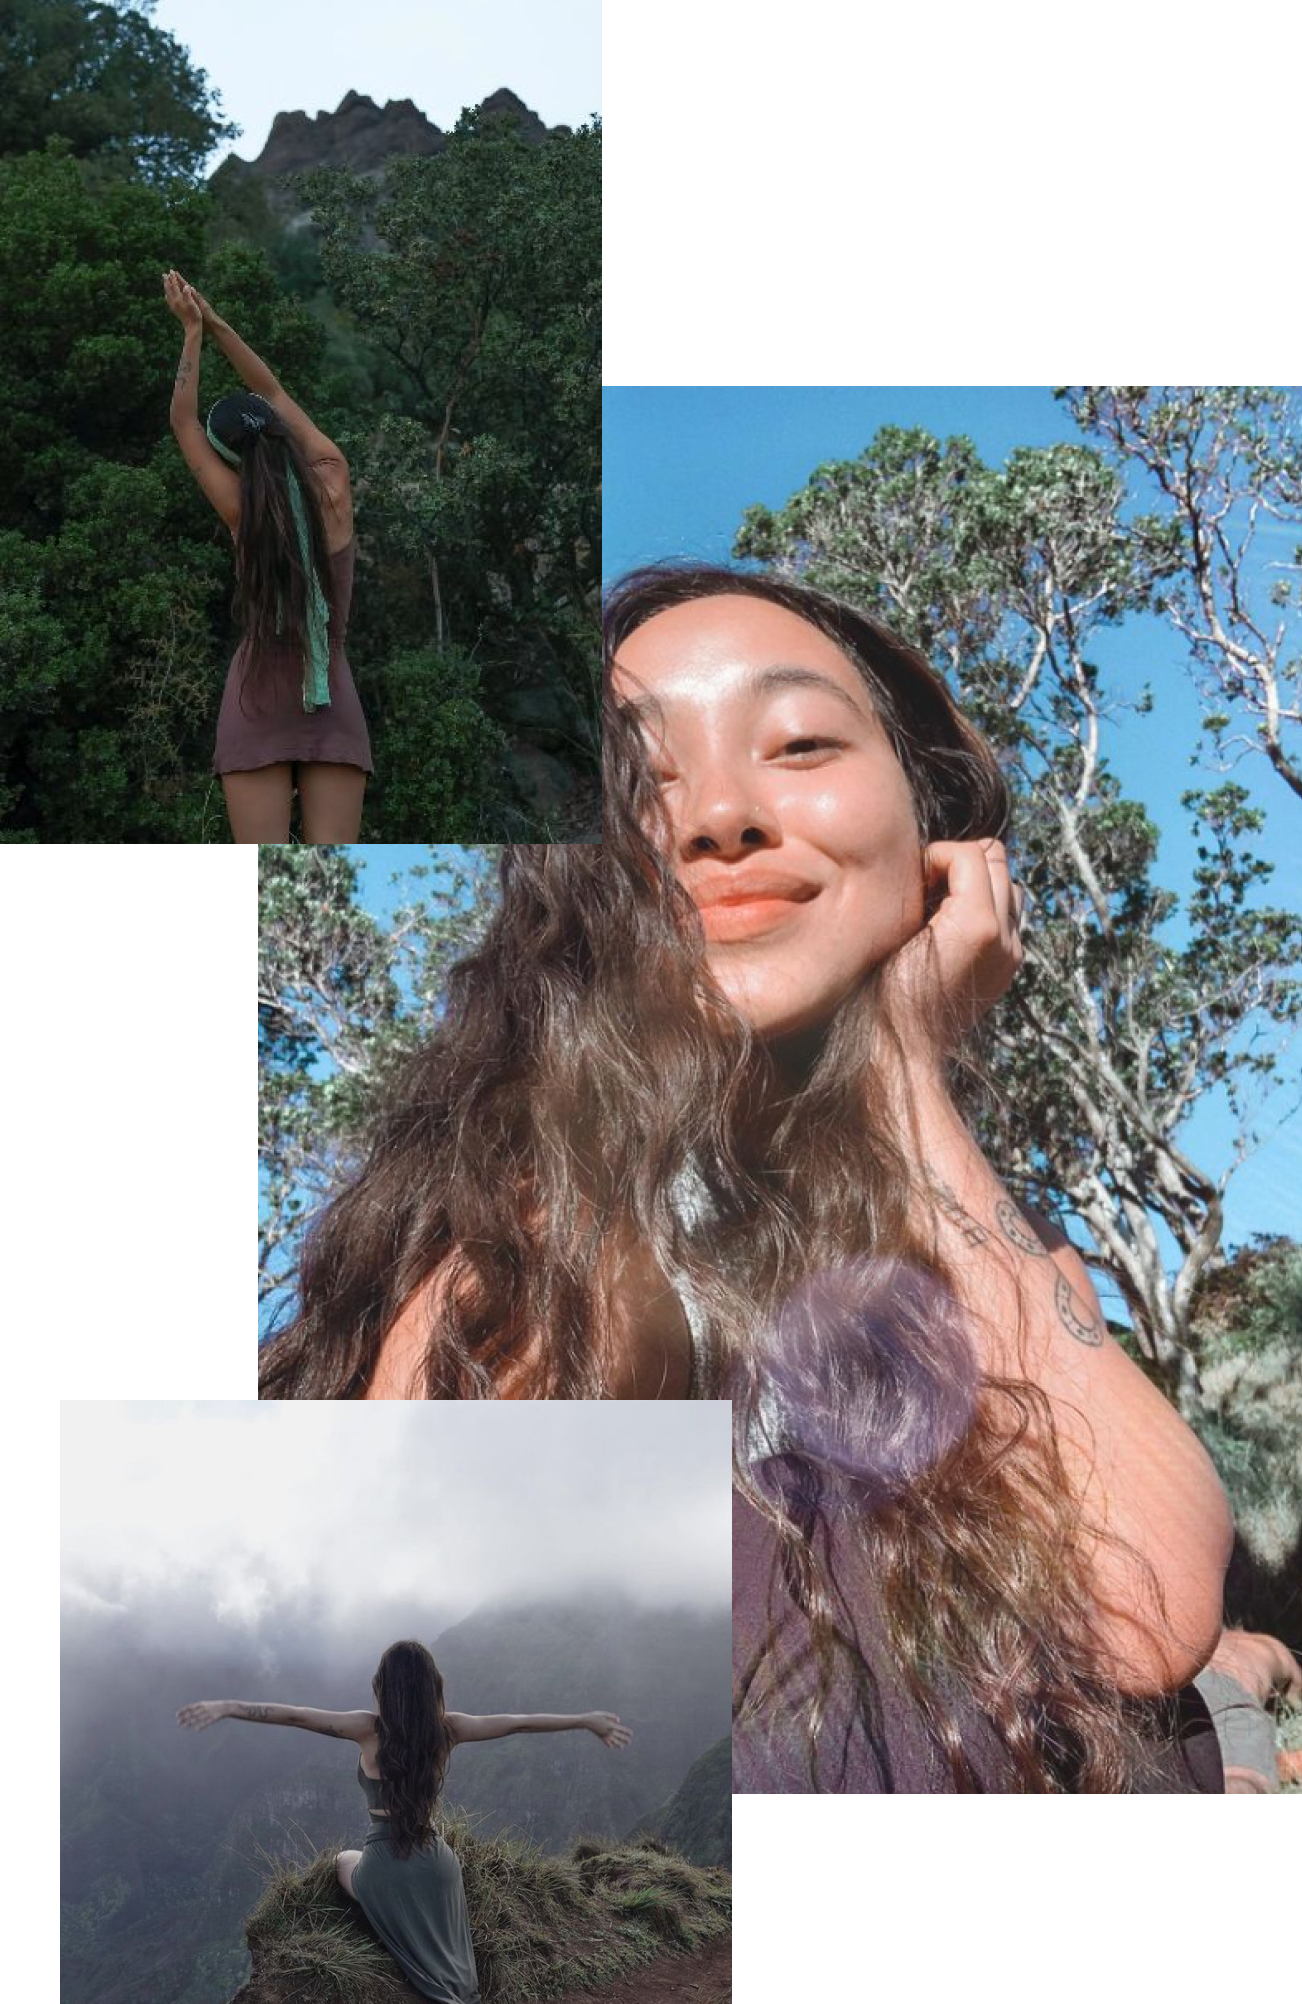
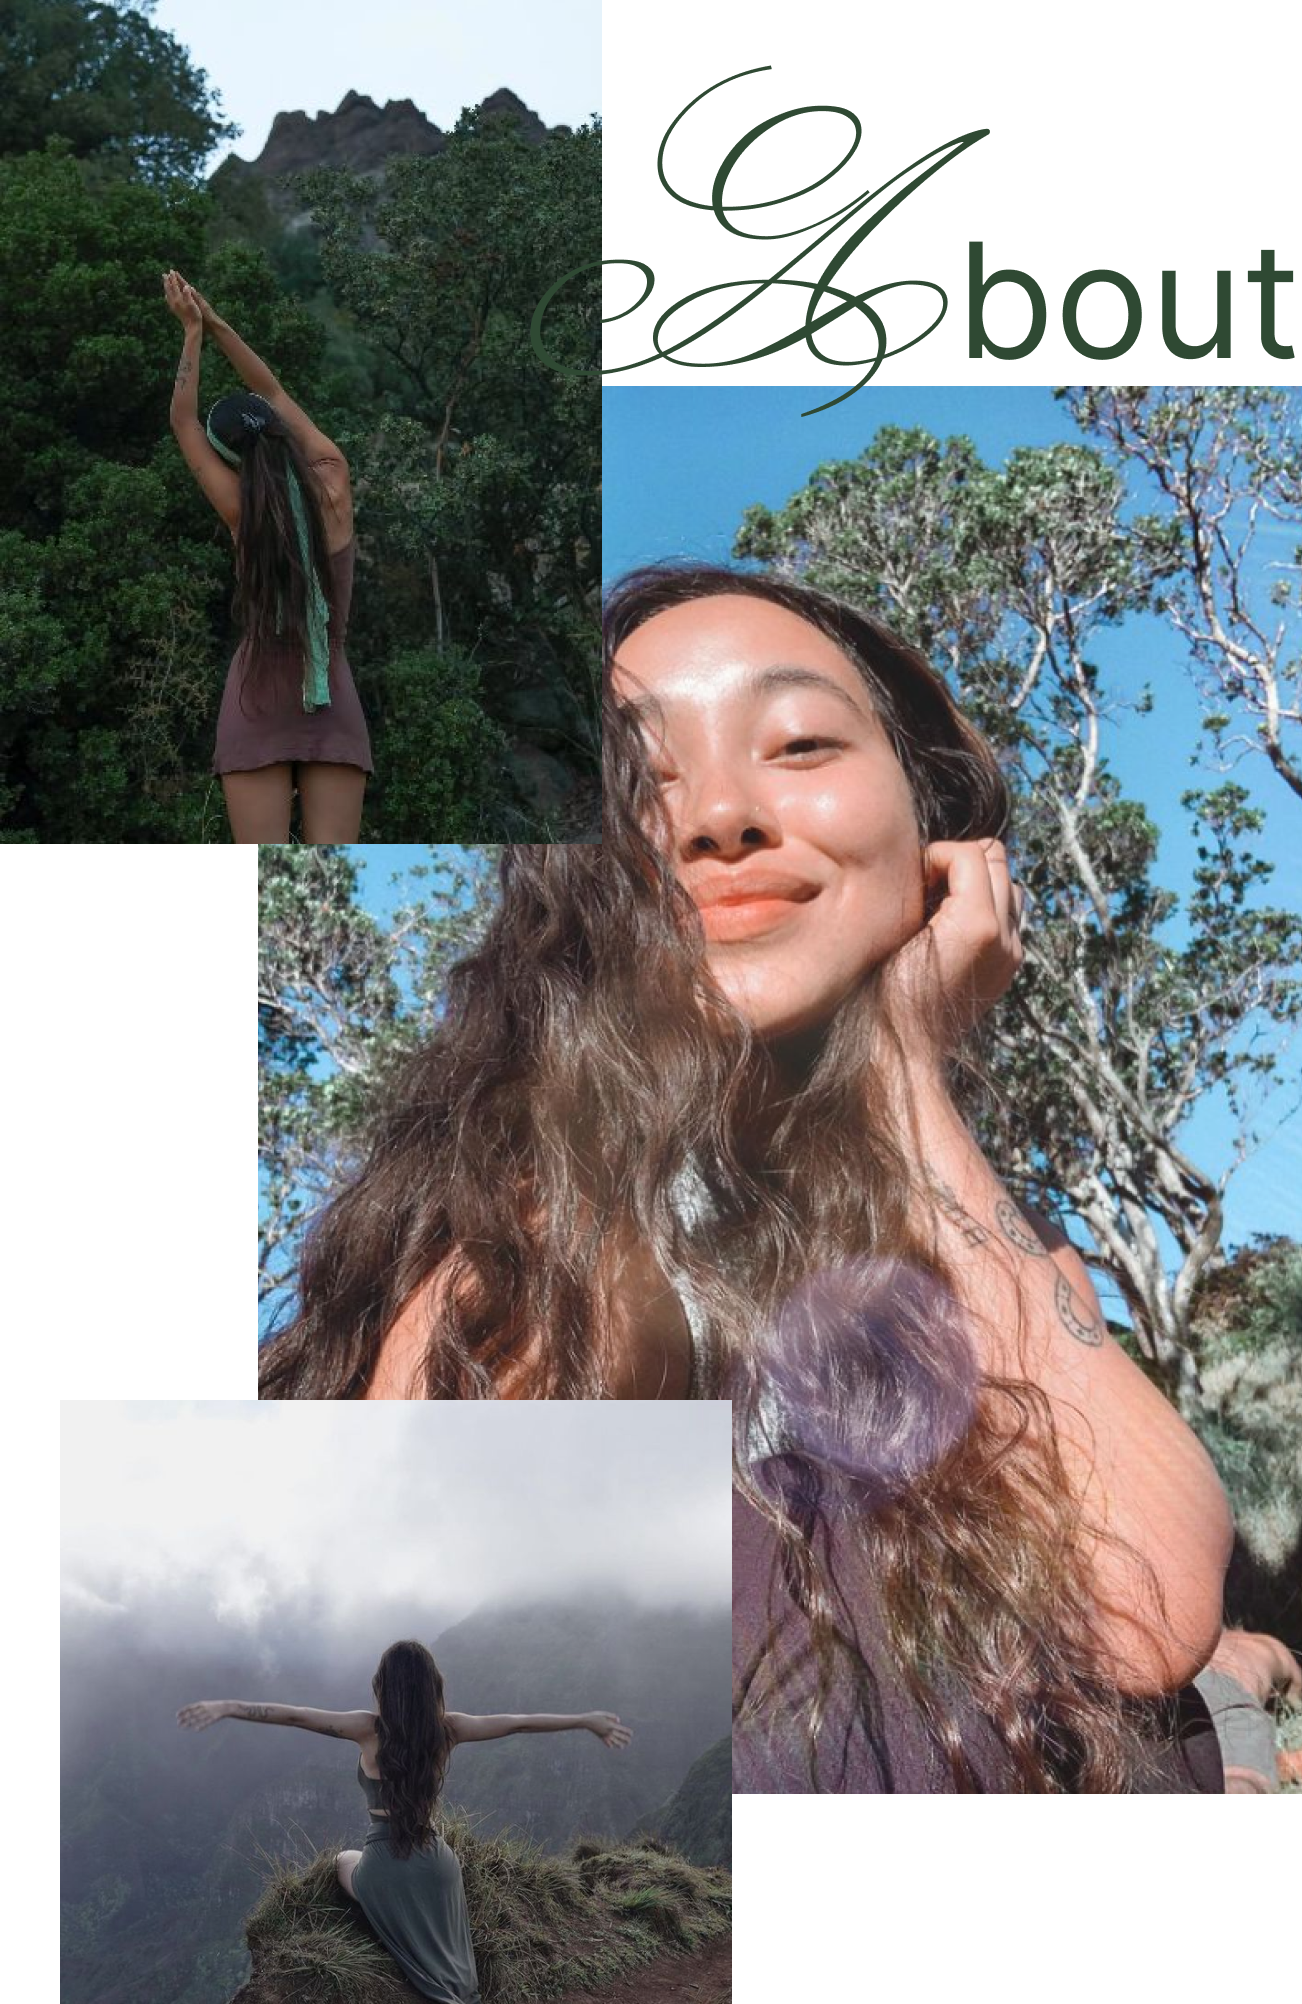
26/11/24

diff --git a/src/pages/About.scss b/src/pages/About.scss
@@ -1,55 +1,122 @@
-.Hitomi_container{
-    color:#2F4933 ;
-    font-family: "bona nova";
+.Hitomi_container {
+  color: #2f4933;
+  font-family: "bona nova";
+  font-weight: 300;
+  padding: 0 70px;
+
+  display: flex;
+  flex-direction: column;
+
+  @media screen and (max-width: 430px) {
+    padding: 0 17px;
+  }
+
+  @media screen and (max-width: 1200px) {
+    align-items: center;
+  }
+
+//   title
+  h2 {
     font-weight: 300;
-    padding: 0 70px;
+    font-size: 75px;
 
+    @media screen and (max-width: 1200px) {
+      font-size: 50px;
+      margin-top: 5%;
+    }
+
+    @media screen and (max-width: 430px) {
+      font-size: 22px;
+    }
+  }
+
+  .about_title {
+    display: none;
+    top: 123%;
+    right: 10%;
+    font-weight: 400;
+    font-family: "inter";
+  }
+
+  // img on mobile
+  .hitomi_mobile {
+    display: none;
+
+    @media screen and (max-width: 1200px) {
+      display: block;
+      width: 70%;
+      align-self: center;
+    }
+
+    @media screen and (max-width: 430px) {
+      display: none;
+    }
+  }
+  // img on desktop
+  .hitomi_connect {
+    width: 700px;
+    height: 1000px;
+
+    @media screen and (max-width: 1200px) {
+      display: none;
+    }
+  }
+
+//   capital letter
+  span {
+    font-family: "Monsieur la doulaise";
+    font-weight: 400;
+    font-size: 120px;
+
+    @media screen and (max-width: 1200px) {
+      font-size: 90px;
+    }
+
+    @media screen and (max-width: 430px) {
+        font-size: 60px;
+      }
+  }
+
+  // small title
+  p {
+    font-size: 20px;
+    margin-left: 70px;
+    margin-bottom: 35px;
+
+    @media screen and (max-width: 1200px) {
+      margin-left: 0;
+    }
+    @media screen and (max-width: 430px) {
+        font-size: 17px;
+      }
+  }
+
+//   text
+  .content_container {
     display: flex;
-    flex-direction: column;
+    flex-direction: row;
+    justify-content: space-between;
 
+    p {
+      width: 75%;
+      font-size: 26px;
+      color: #f0ede5;
+      margin-top: 10px;
+      margin-left: 0;
 
-    h2{
-        font-weight: 300;
-        font-size: 75px;
-        
+      @media screen and (max-width: 1200px) {
+        text-align: justify;
+        justify-self: center;
+      }
+
+      @media screen and (max-width: 840px){
+        width: 95%;
+      }
+
+      @media screen and (max-width: 430px) {
+        width: 100%;
+        font-size: 21px;
+      }
     }
-
-    .about_title{
-        position: absolute;
-        right:120px;
-        top:1110px;
-        font-weight: 400;
-        font-family: 'inter';
-    }
-
-    span{
-        font-family: "Monsieur la doulaise";
-        font-weight: 400;
-        font-size: 120px;
-    }
-
-    p{
-        font-size: 20px;
-        margin-left: 70px;
-        margin-bottom: 35px;
-        
-    }
-
-    .content_container{
-
-        display: flex;
-        flex-direction:row ;
-        justify-content: space-between;
-
-        p{
-            width: 75%;
-            font-size: 26px;
-            color:#F0EDE5 ;
-            margin-top: 10px;
-            margin-left: 0;
-        }
-
-      
-    }
-
+  }
 }

diff --git a/src/pages/Article.scss b/src/pages/Article.scss
@@ -7,6 +7,10 @@
     padding: 0 70px;
     color: #F0EDE5;
 
+    @media screen and (max-width: 431px){
+        padding: 0 17px;
+    }
+
     // main title
     .articlePage_maintitle{
         font-family: "Bona nova";
@@ -18,10 +22,25 @@
         letter-spacing: 1px;
         align-self: center;
 
+        @media screen and (max-width: 1024px) {
+            width: 100%;
+            }
+         
+            @media screen and (max-width: 431px){
+                font-size: 30px;
+                letter-spacing: 0px;
+                line-height: 40px;
+                margin-top: 10%;
+            }
+
         // capial letter
         span{
             font-family: "Monsieur la doulaise";
             font-size: 100px;
+
+            @media screen and (max-width: 431px){
+                font-size: 60px;
+            }
         }
     }
 // infos under main title
@@ -33,7 +52,7 @@
         font-family: "Bona nova";
         font-weight: 400;
         align-self: center;
-
+        display: none;
         p{
             margin: 0 5px;
         }
@@ -52,11 +71,12 @@
 
         span{
             font-family: "Monsieur la doulaise";
-            font-size: 65px;
-            
-        
+            font-size: 65px;    
     }
 
+ @media screen and (max-width: 431px){
+                font-size: 28px
+            }
     
 }
 
@@ -69,8 +89,7 @@ p, .intro{
 }
 
 
-.img_divider{
+.divider{
     width: 100%;
-    height: 40vh;
     margin: 50px 0;
 }

diff --git a/src/pages/Article.js b/src/pages/Article.js
@@ -4,6 +4,8 @@ import img from "../assets/images/article_img.png";
 import Articles from "../components/Articles";
 import HitomiPlus from "../components/HitomiPlus";
 import Header2 from '../components/Header2';
+import { ReactComponent as Divider } from "../assets/divider.svg";
+
 
 function Article() {
   return (
@@ -35,6 +37,7 @@ function Article() {
           especially drawn to slow living as a path to a more meaningful,
           balanced life.
         </span>
+        <Divider className="divider"/>
         {/* text  / content */}
         <h2>
           <span>W</span>hat is Slow Living?
@@ -54,7 +57,7 @@ function Article() {
           practicing meditation, simplifying our schedules, or opting for
           eco-friendly, sustainable habits that protect our planet.
         </p>
-        <img className="img_divider" src={img} />
+        
         <h2>
           <span>H</span>ow to Begin Embracing Slow Living
         </h2>

diff --git a/src/pages/About.js b/src/pages/About.js
@@ -10,6 +10,7 @@ function About() {
     {/* Global container */}
     
     <div className="Hitomi_container">
+      <img src={Hitomi} className="hitomi_mobile"/>
       <h2>
         <span>H</span>itomi <span>M</span>ochizuki
       </h2>
@@ -50,7 +51,7 @@ function About() {
         </article>
         <section>
           <h2 className="about_title"><span>A</span>bout</h2>
-          <img src={Hitomi} width="651" height="1002"/>
+          <img src={Hitomi} className="hitomi_connect"/>
         </section>
       </section>
       

diff --git a/src/components/Articles.scss b/src/components/Articles.scss
@@ -78,10 +78,11 @@
       background-image: url("../assets/images/Instagram\ @bivi_sii\ 1.png");
       background-size: cover;
       background-position: top;
+      background-repeat: no-repeat;
 
       @media (max-width: 1024px) {
       }
-      background-position: 5px 30%;
+      background-position: 0px 30%;
     }
 
     .c {
@@ -91,8 +92,8 @@
     .arrow {
       align-self: end;
       @media (max-width: 1024px) {
-        width: 100px;
-        height: 100px;
+        width: 90px;
+        height: 90px;
       }
     }
 

diff --git a/src/components/Lets_Connect.js b/src/components/Lets_Connect.js
@@ -20,7 +20,7 @@ Hitomi
 <br/><br/></p>
      <button>Let's connect</button>
       </section>
-      <img src={image} height="496" width="435" />
+      <img src={image}/>
       {/* End - Text & image + cta */}
     </div>
     // End - Global container
